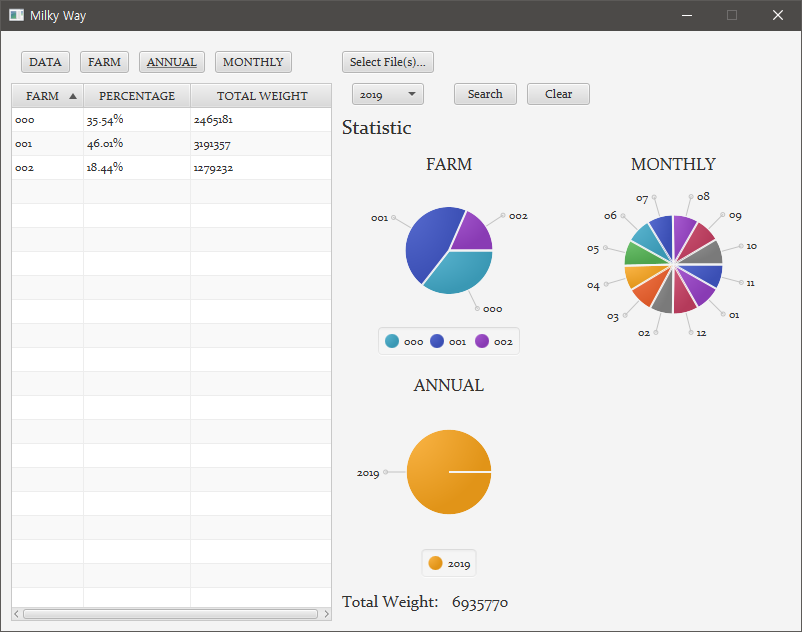
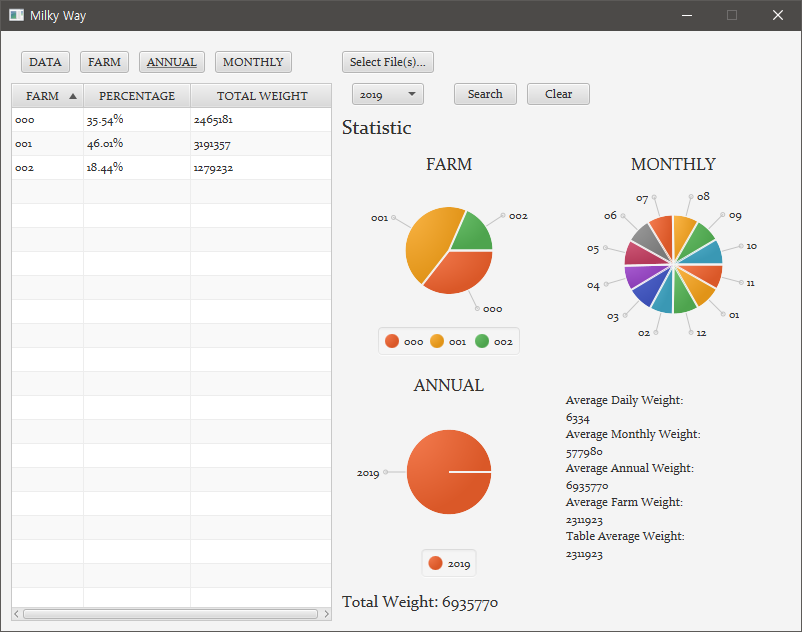
Change Screenshot, update

diff --git a/application/Main.java b/application/Main.java
@@ -37,7 +37,7 @@ public class Main extends Application {
   private Button[] tabB; // Tab Buttons
   private FileChooser fileChooser; // FileChooser to choose file
   private Label total, average; // Label to display Total Weight, Average Weight
-  private Button Cfile, Isearch, Iclear; // Button to Choose File, Search by input, Clear input
+  private Button selectfile, Isearch, Iclear; // Button to Choose File, Search by input, Clear input
   private GridPane chartgrid, inputGrid; // Grid for PieChart and input section
   private PieChart farmChart, monthChart, yearChart; // PieChart for farm, month, year
   private ObservableList<Farm> dataList; // List for TableView
@@ -108,7 +108,7 @@ public class Main extends Application {
     average.setText(
         "Average Daily Weight: \n" + report.getDailyAverage(null, null, null, null, null, null)
             + "\nAverage Monthly Weight: \n" + report.getMonthlyAverage(null, null)
-            + "\nAverage Annual Weight: \n" + report.getFarmAverage(null, null)
+            + "\nAverage Annual Weight: \n" + report.getAnnualAverage()
             + "\nAverage Farm Weight: \n" + report.getFarmAverage(null, null)
             + "\nTable Average Weight: \n"
             + report.getDailyAverage(null, null, null, null, null, null));
@@ -117,18 +117,17 @@ public class Main extends Application {
       csvTable.setItems(FXCollections
           .observableArrayList(report.getRangeReport(null, year.getValue(), month.getValue(),
               day.getValue(), null, dyear.getValue(), dmonth.getValue(), dday.getValue())));
-      csvTable.getSortOrder().add(csvTable.getColumns().get(0));
+      csvTable.getSortOrder().addAll(csvTable.getColumns().get(0), csvTable.getColumns().get(1));
       average.setText("Average Daily Weight: \n"
           + report.getDailyAverage(null, null, null, null, null, null)
           + "\nAverage Monthly Weight: \n" + report.getMonthlyAverage(null, null)
-          + "\nAverage Annual Weight: \n" + report.getFarmAverage(null, null)
+          + "\nAverage Annual Weight: \n" + report.getAnnualAverage()
           + "\nAverage Farm Weight: \n" + report.getFarmAverage(null, null)
           + "\nTable Average Weight: \n" + report.getDailyAverage(year.getValue(), month.getValue(),
               day.getValue(), dyear.getValue(), dmonth.getValue(), dday.getValue()));
     });
 
-    Cfile.setOnAction(e -> {
-
+    selectfile.setOnAction(e -> {
       List<File> selectedFiles = fileChooser.showOpenMultipleDialog(primaryStage);
       if (selectedFiles != null)
         for (File f : selectedFiles) {
@@ -138,7 +137,7 @@ public class Main extends Application {
       average.setText(
           "Average Daily Weight: \n" + report.getDailyAverage(null, null, null, null, null, null)
               + "\nAverage Monthly Weight: \n" + report.getMonthlyAverage(null, null)
-              + "\nAverage Annual Weight: \n" + report.getFarmAverage(null, null)
+              + "\nAverage Annual Weight: \n" + report.getAnnualAverage()
               + "\nAverage Farm Weight: \n" + report.getFarmAverage(null, null)
               + "\nTable Average Weight: \n"
               + report.getDailyAverage(null, null, null, null, null, null));
@@ -168,7 +167,7 @@ public class Main extends Application {
     average.setText(
         "Average Daily Weight: \n" + report.getDailyAverage(null, null, null, null, null, null)
             + "\nAverage Monthly Weight: \n" + report.getMonthlyAverage(null, null)
-            + "\nAverage Annual Weight: \n" + report.getFarmAverage(null, null)
+            + "\nAverage Annual Weight: \n" + report.getAnnualAverage()
             + "\nAverage Farm Weight: \n" + report.getFarmAverage(null, null)
             + "\nTable Average Weight: \n" + report.getMonthlyAverage(null, null));
 
@@ -179,7 +178,7 @@ public class Main extends Application {
         average.setText(
             "Average Daily Weight: \n" + report.getDailyAverage(null, null, null, null, null, null)
                 + "\nAverage Monthly Weight: \n" + report.getMonthlyAverage(null, null)
-                + "\nAverage Annual Weight: \n" + report.getFarmAverage(null, null)
+                + "\nAverage Annual Weight: \n" + report.getAnnualAverage()
                 + "\nAverage Farm Weight: \n" + report.getFarmAverage(null, null)
                 + "\nTable Average Weight: \n" + report.getMonthlyAverage(null, year.getValue()));
       } else {
@@ -188,7 +187,7 @@ public class Main extends Application {
         average.setText(
             "Average Daily Weight: \n" + report.getDailyAverage(null, null, null, null, null, null)
                 + "\nAverage Monthly Weight: \n" + report.getMonthlyAverage(null, null)
-                + "\nAverage Annual Weight: \n" + report.getFarmAverage(null, null)
+                + "\nAverage Annual Weight: \n" + report.getAnnualAverage()
                 + "\nAverage Farm Weight: \n" + report.getFarmAverage(null, null)
                 + "\nTable Average Weight: \n"
                 + report.getMonthlyAverage(farmID.getText(), year.getValue()));
@@ -197,7 +196,7 @@ public class Main extends Application {
 
     });
 
-    Cfile.setOnAction(e -> {
+    selectfile.setOnAction(e -> {
       List<File> selectedFiles = fileChooser.showOpenMultipleDialog(primaryStage);
       if (selectedFiles != null)
         for (File f : selectedFiles) {
@@ -207,7 +206,7 @@ public class Main extends Application {
       average.setText(
           "Average Daily Weight: \n" + report.getDailyAverage(null, null, null, null, null, null)
               + "\nAverage Monthly Weight: \n" + report.getMonthlyAverage(null, null)
-              + "\nAverage Annual Weight: \n" + report.getFarmAverage(null, null)
+              + "\nAverage Annual Weight: \n" + report.getAnnualAverage()
               + "\nAverage Farm Weight: \n" + report.getFarmAverage(null, null)
               + "\nTable Average Weight: \n" + report.getMonthlyAverage(null, null));
       showFarm(primaryStage);
@@ -235,7 +234,7 @@ public class Main extends Application {
     average.setText(
         "Average Daily Weight: \n" + report.getDailyAverage(null, null, null, null, null, null)
             + "\nAverage Monthly Weight: \n" + report.getMonthlyAverage(null, null)
-            + "\nAverage Annual Weight: \n" + report.getFarmAverage(null, null)
+            + "\nAverage Annual Weight: \n" + report.getAnnualAverage()
             + "\nAverage Farm Weight: \n" + report.getFarmAverage(null, null)
             + "\nTable Average Weight: \n" + report.getFarmAverage(null, null));
 
@@ -245,13 +244,13 @@ public class Main extends Application {
       average.setText(
           "Average Daily Weight: \n" + report.getDailyAverage(null, null, null, null, null, null)
               + "\nAverage Monthly Weight: \n" + report.getMonthlyAverage(null, null)
-              + "\nAverage Annual Weight: \n" + report.getFarmAverage(null, null)
+              + "\nAverage Annual Weight: \n" + report.getAnnualAverage()
               + "\nAverage Farm Weight: \n" + report.getFarmAverage(null, null)
               + "\nTable Average Weight: \n" + report.getFarmAverage(year.getValue(), null));
       csvTable.getSortOrder().add(csvTable.getColumns().get(0));
     });
 
-    Cfile.setOnAction(e -> {
+    selectfile.setOnAction(e -> {
       List<File> selectedFiles = fileChooser.showOpenMultipleDialog(primaryStage);
       if (selectedFiles != null)
         for (File f : selectedFiles) {
@@ -261,7 +260,7 @@ public class Main extends Application {
       average.setText(
           "Average Daily Weight: \n" + report.getDailyAverage(null, null, null, null, null, null)
               + "\nAverage Monthly Weight: \n" + report.getMonthlyAverage(null, null)
-              + "\nAverage Annual Weight: \n" + report.getFarmAverage(null, null)
+              + "\nAverage Annual Weight: \n" + report.getAnnualAverage()
               + "\nAverage Farm Weight: \n" + report.getFarmAverage(null, null)
               + "\nTable Average Weight: \n" + report.getFarmAverage(null, null));
       showAnnual(primaryStage);
@@ -289,7 +288,7 @@ public class Main extends Application {
     average.setText(
         "Average Daily Weight: \n" + report.getDailyAverage(null, null, null, null, null, null)
             + "\nAverage Monthly Weight: \n" + report.getMonthlyAverage(null, null)
-            + "\nAverage Annual Weight: \n" + report.getFarmAverage(null, null)
+            + "\nAverage Annual Weight: \n" + report.getAnnualAverage()
             + "\nAverage Farm Weight: \n" + report.getFarmAverage(null, null)
             + "\nTable Average Weight: \n" + report.getFarmAverage(null, null));
 
@@ -300,13 +299,13 @@ public class Main extends Application {
       average.setText(
           "Average Daily Weight: \n" + report.getDailyAverage(null, null, null, null, null, null)
               + "\nAverage Monthly Weight: \n" + report.getMonthlyAverage(null, null)
-              + "\nAverage Annual Weight: \n" + report.getFarmAverage(null, null)
+              + "\nAverage Annual Weight: \n" + report.getAnnualAverage()
               + "\nAverage Farm Weight: \n" + report.getFarmAverage(null, null)
               + "\nTable Average Weight: \n"
               + report.getFarmAverage(year.getValue(), month.getValue()));
     });
 
-    Cfile.setOnAction(e -> {
+    selectfile.setOnAction(e -> {
       List<File> selectedFiles = fileChooser.showOpenMultipleDialog(primaryStage);
       if (selectedFiles != null)
         for (File f : selectedFiles) {
@@ -316,7 +315,7 @@ public class Main extends Application {
       average.setText(
           "Average Daily Weight: \n" + report.getDailyAverage(null, null, null, null, null, null)
               + "\nAverage Monthly Weight: \n" + report.getMonthlyAverage(null, null)
-              + "\nAverage Annual Weight: \n" + report.getFarmAverage(null, null)
+              + "\nAverage Annual Weight: \n" + report.getAnnualAverage()
               + "\nAverage Farm Weight: \n" + report.getFarmAverage(null, null)
               + "\nTable Average Weight: \n" + report.getFarmAverage(null, null));
       showMonthly(primaryStage);
@@ -415,8 +414,8 @@ public class Main extends Application {
 
     // Right Top Setup: FileChooser
     fileChooser.setInitialDirectory(new File("."));
-    Cfile = new Button("Select File(s)...");
-    Cfile.setFocusTraversable(false);
+    selectfile = new Button("Select File(s)...");
+    selectfile.setFocusTraversable(false);
 
     // Right Top Setup: User Input
     inputGrid.setHgap(10);
@@ -501,7 +500,7 @@ public class Main extends Application {
     average.setText(
         "Average Daily Weight: \n" + report.getDailyAverage(null, null, null, null, null, null)
             + "\nAverage Monthly Weight: \n" + report.getMonthlyAverage(null, null)
-            + "\nAverage Annual Weight: \n" + report.getFarmAverage(null, null)
+            + "\nAverage Annual Weight: \n" + report.getAnnualAverage()
             + "\nAverage Farm Weight: \n" + report.getFarmAverage(null, null)
             + "\nTable Average Weight: \n"
             + report.getDailyAverage(null, null, null, null, null, null));
@@ -519,7 +518,7 @@ public class Main extends Application {
     rightBottom.getChildren().addAll(total);
 
     // Right Pannel Setup
-    rightTop.getChildren().addAll(Cfile, inputGrid);
+    rightTop.getChildren().addAll(selectfile, inputGrid);
     rightTop.setSpacing(10);
     rightPanel.setPadding(new Insets(10));
     rightPanel.setSpacing(10);
